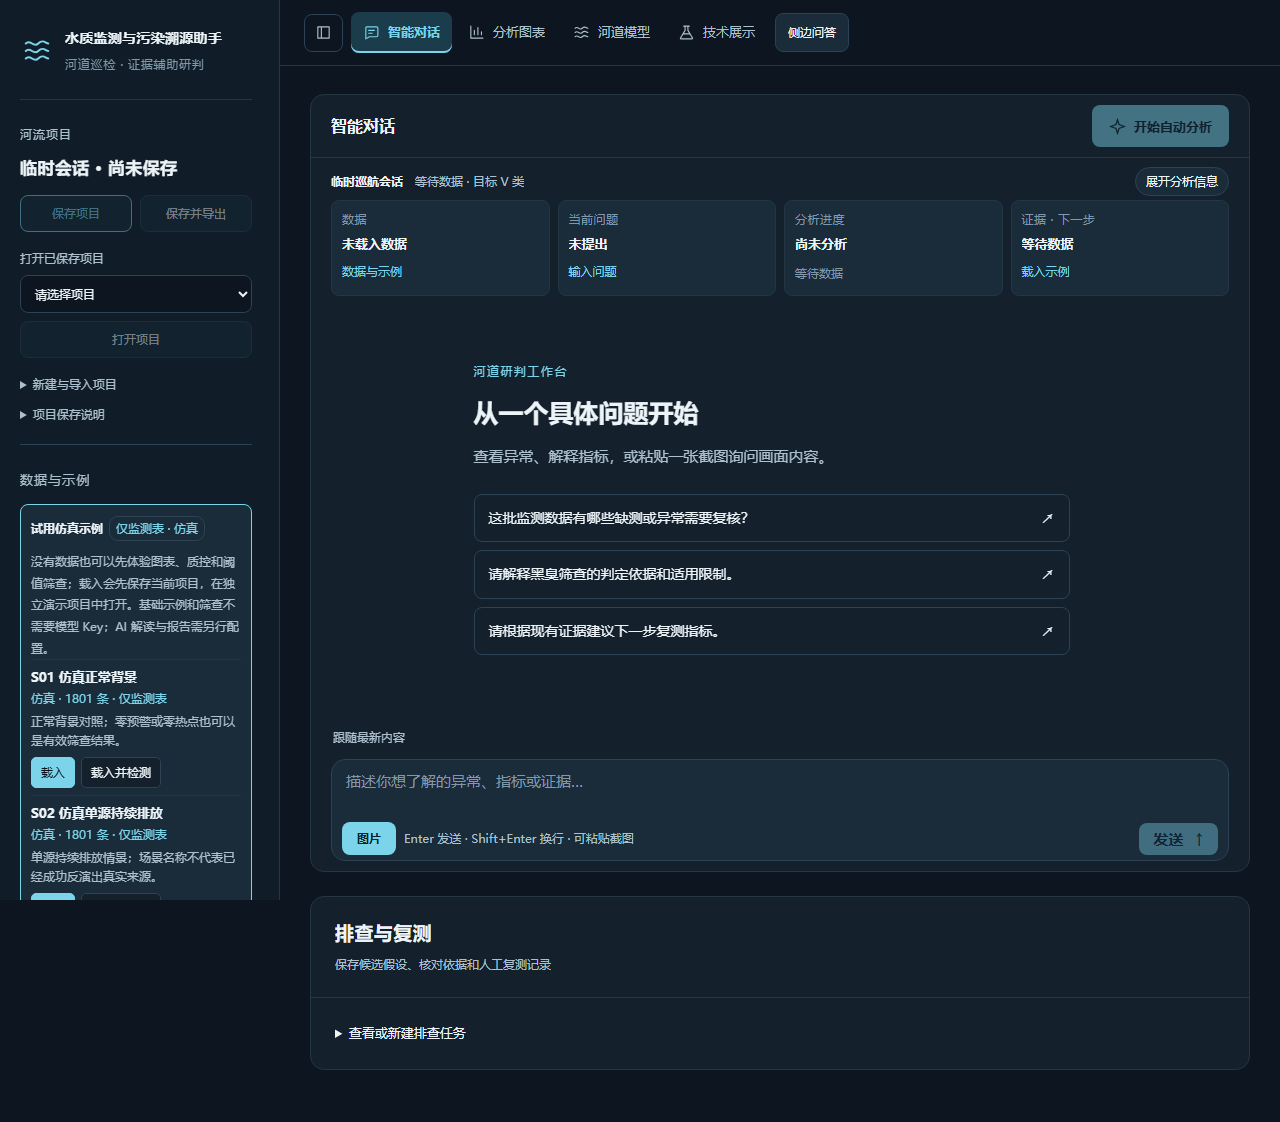
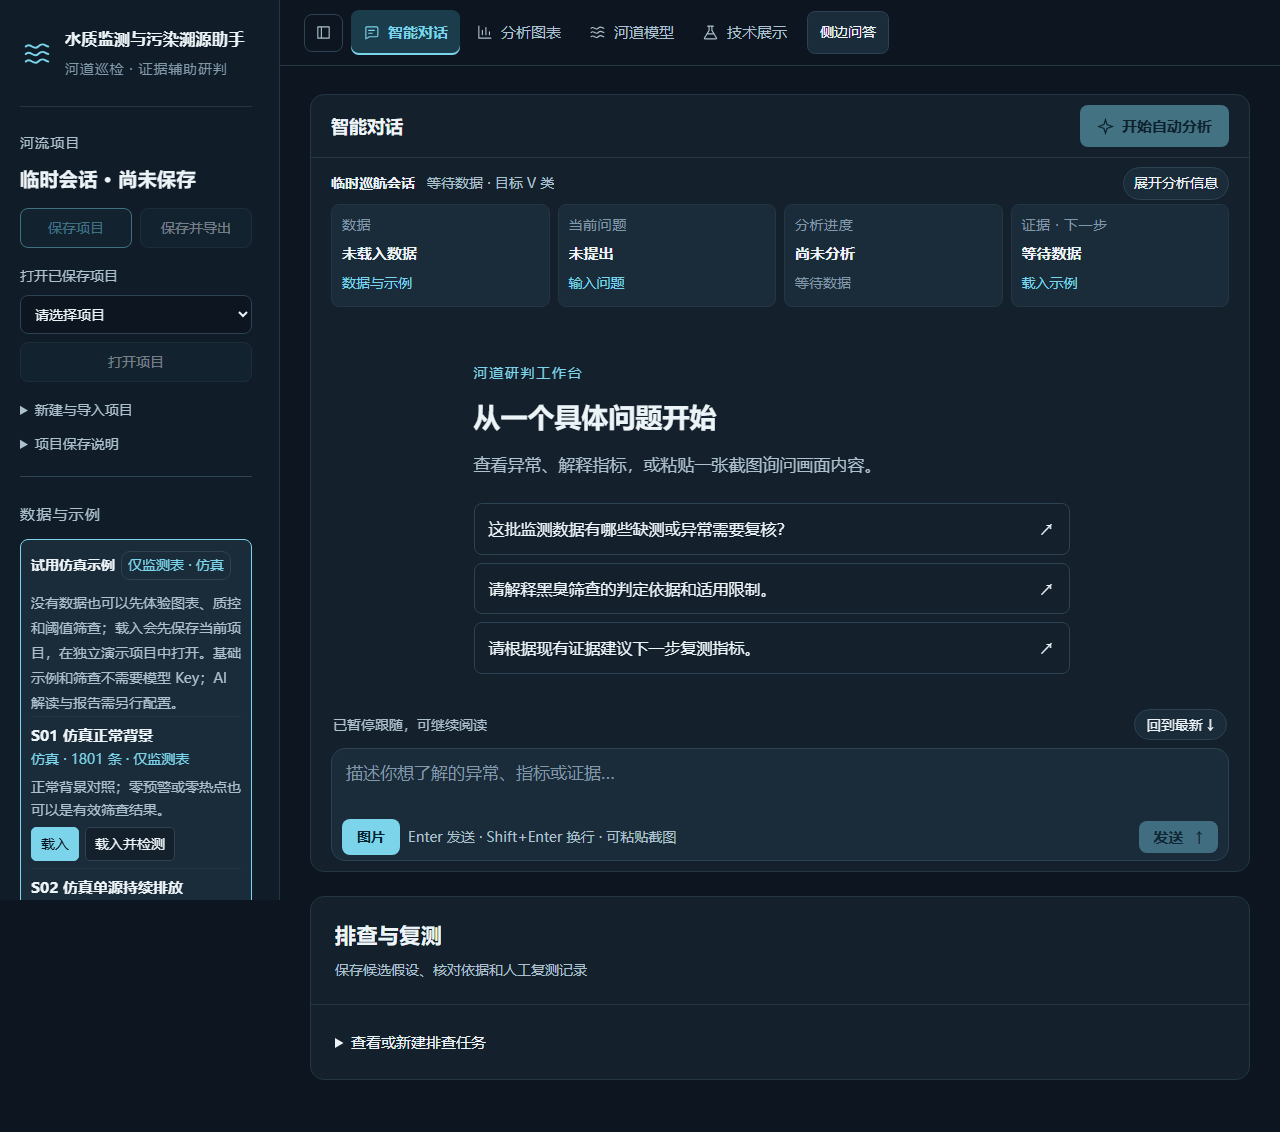
docs(q16): record RAG success and failure retry

diff --git a/docs/Q16协同研判工作台验收.md b/docs/Q16协同研判工作台验收.md
@@ -1,8 +1,8 @@
 # Q16 协同研判工作台验收
 
 > 日期：2026-10-28
-> 范围：主入口工作台状态、Q13—Q15 的可见整合、桌面/窄屏操作与本机单轮真实模型流程。
-> 结论：工作台已实现并通过本机单轮真实流程；**失败重试入口可见但未重复执行收费调用**，因此不把本轮写成“多轮成功/完整在线效果验收”。
+> 范围：主入口工作台状态、Q13—Q15 的可见整合、桌面/窄屏操作、RAG 成功路径与失败重试。
+> 结论：工作台已实现；RAG 完整环境成功路径（29 秒、12 次工具、报告完成并引用真实证据）和缺依赖环境的失败重试均已实际执行。重试仍因环境缺可选依赖保持“部分完成”，不写成重试成功。
 
 ## 1. 实现
 
@@ -22,17 +22,33 @@
 - 工作台不新建第二套状态；所有值来自现有 store 和会话/revision。
 - 保留四页导航、主聊天、Q13 上下文卡、Q14 划词/侧边问答、Q15 结构化卡片与排查板。
 
-## 2. 单轮真实流程
+## 2. 真实流程（成功与失败重试）
 
-环境：隔离项目目录 `work/browser_projects_q16c`，服务 `scripts/serve_web.py` 5187，生产构建；示例为 S01 V2（1801 行、`synthetic`）。
+示例均为 S01 V2（1801 行、`synthetic`），生产构建，真实 DeepSeek 服务。
 
-1. 空项目：工作台显示 `未载入数据 / 未提出 / 尚未分析 / 等待数据`。
-2. 载入 S01：`1801 条记录 · 仿真 / 未提出 / 已完成基础筛查 / 0 个预警点`。
-3. 点击「开始自动分析」：调用配置的 DeepSeek 服务，实际执行 26 秒、11 次工具调用；报告生成，但有 1 项未恢复失败——当前干净环境缺 `chromadb`/`sentence_transformers`，治理案例检索不可用。运行状态如实显示「部分完成」，不是成功。
-4. 报告正文列出缺测指标、配准未设置、视频跳过和 RAG 失败，并给出复测建议；显示 4 张待确认研判卡片（草稿，未写入排查板）。
-5. 失败后「从当前数据重新执行上一请求」入口可见；本轮未重复点击，避免无意义收费调用。
+### 2.1 RAG 成功路径
 
-截图：`docs/validation/q16_auto_analysis_partial_1280.png`。
+环境：5188，完整共享依赖 + 隔离的 `.rag_index` 副本（29 份资料、147 块）。
+
+1. 载入 S01：`1801 条记录 · 仿真 / 未提出 / 已完成基础筛查 / 0 个预警点`。
+2. 点击「开始自动分析」：实际执行 **29 秒、12 次工具调用**，工作台显示「本轮已完成」。
+3. 报告生成，未触发黑臭预警；RAG 检索成功，报告引用真实证据 ID
+   `黑臭水体\济南小清河黑臭水体综合治理案例.md_3`，并说明是本地资料、非本次实测。
+4. 显示 3 张待确认研判卡片（草稿，未写入排查板），下一步复测建议可见。
+
+截图：`docs/validation/q16_rag_success_1280.png`。
+
+### 2.2 缺依赖失败与重试
+
+环境：5187，干净 CI venv（缺 `chromadb`/`sentence_transformers`）。
+
+1. 第一次自动分析：26 秒、11 次工具调用，报告生成，但治理案例检索失败；工作台显示「上轮部分完成」。
+2. 点击「从当前数据重新执行上一请求」：第二次运行实际执行，运行中显示「等待模型响应」，结束后仍为「上轮部分完成」；重试入口保持可见。
+3. 报告保留缺测、配准未设置、视频跳过和 RAG 失败说明；没有伪造案例引用。
+
+截图：`docs/validation/q16_failure_retry_1280.png`、`q16_auto_analysis_partial_1280.png`。
+
+重试没有因环境缺依赖而变成成功；这是如实结果。
 
 ## 3. 桌面与窄屏
 
@@ -41,7 +57,7 @@
 | 1280×900 | 工作台 4 列，无横向溢出；空/已载入状态正确 | `docs/validation/q16_workbench_empty_1280.png`、`q16_workbench_loaded_1280.png` |
 | 390×844 | 工作台 2×2，无横向溢出；通过抽屉打开示例、载入并关闭抽屉后状态保持 | `docs/validation/q16_workbench_empty_390.png`、`q16_workbench_loaded_390.png` |
 
-窄屏为 Chromium 视口模拟，不是真机软键盘、Safari 或读屏器验收。
+窄屏为 Chromium 视口模拟，不是真机软键盘、Safari 或读屏器验收。工作台空/载入截图已在全站字号增大后重拍；RAG 成功/失败重试截图采集于字号调整前，仅证明流程与状态，不作为最终字号截图。
 
 工作台「核对证据并安排复测」已实际点击，能打开现有排查板并挂载 `#investigation-board`；未代替用户确认或写入排查记录。
 
@@ -56,12 +72,12 @@
 
 ## 5. 未完成与限制
 
-- **失败重试只验证入口存在，未执行第二次收费模型调用**；不能写“多轮重试成功”。
-- 本轮自动分析为“部分完成”，不是完整成功报告；RAG 综合回答未验证。
+- RAG 成功路径使用完整共享环境和隔离索引副本；干净 CI 环境仍按设计不含 RAG 依赖。
+- 失败重试已实际执行一次，但因环境缺可选依赖仍为“部分完成”；不能写“重试成功”。
 - 未做真实用户桌面/窄屏走查、读屏器、Safari、真机触屏或低端硬件验证。
 - Q17 的完整性能画像、Q11 参赛材料和 Q18 视觉证据业务接入仍未完成。
 - 工作台是状态摘要，不替代地图、图表、报告正文或排查板；证据仍以实际工具返回为准。
 
 ## 6. 下一步
 
-Q16 实现与单轮本机流程已记录；后续可在有完整 RAG 依赖的环境中补一次“检索成功但回答失败/重试”的多轮演示，再进入 Q17 整体性能与体验验收。不能因本轮工作台可见就宣称完整交互验收或现场效果。
+Q16 的成功路径、失败重试和工作台状态已记录；后续进入 Q17 整体性能与体验验收，再完成 Q11 材料。不能因本轮流程可见就宣称现场效果、真实用户可用性或读屏器通过。
